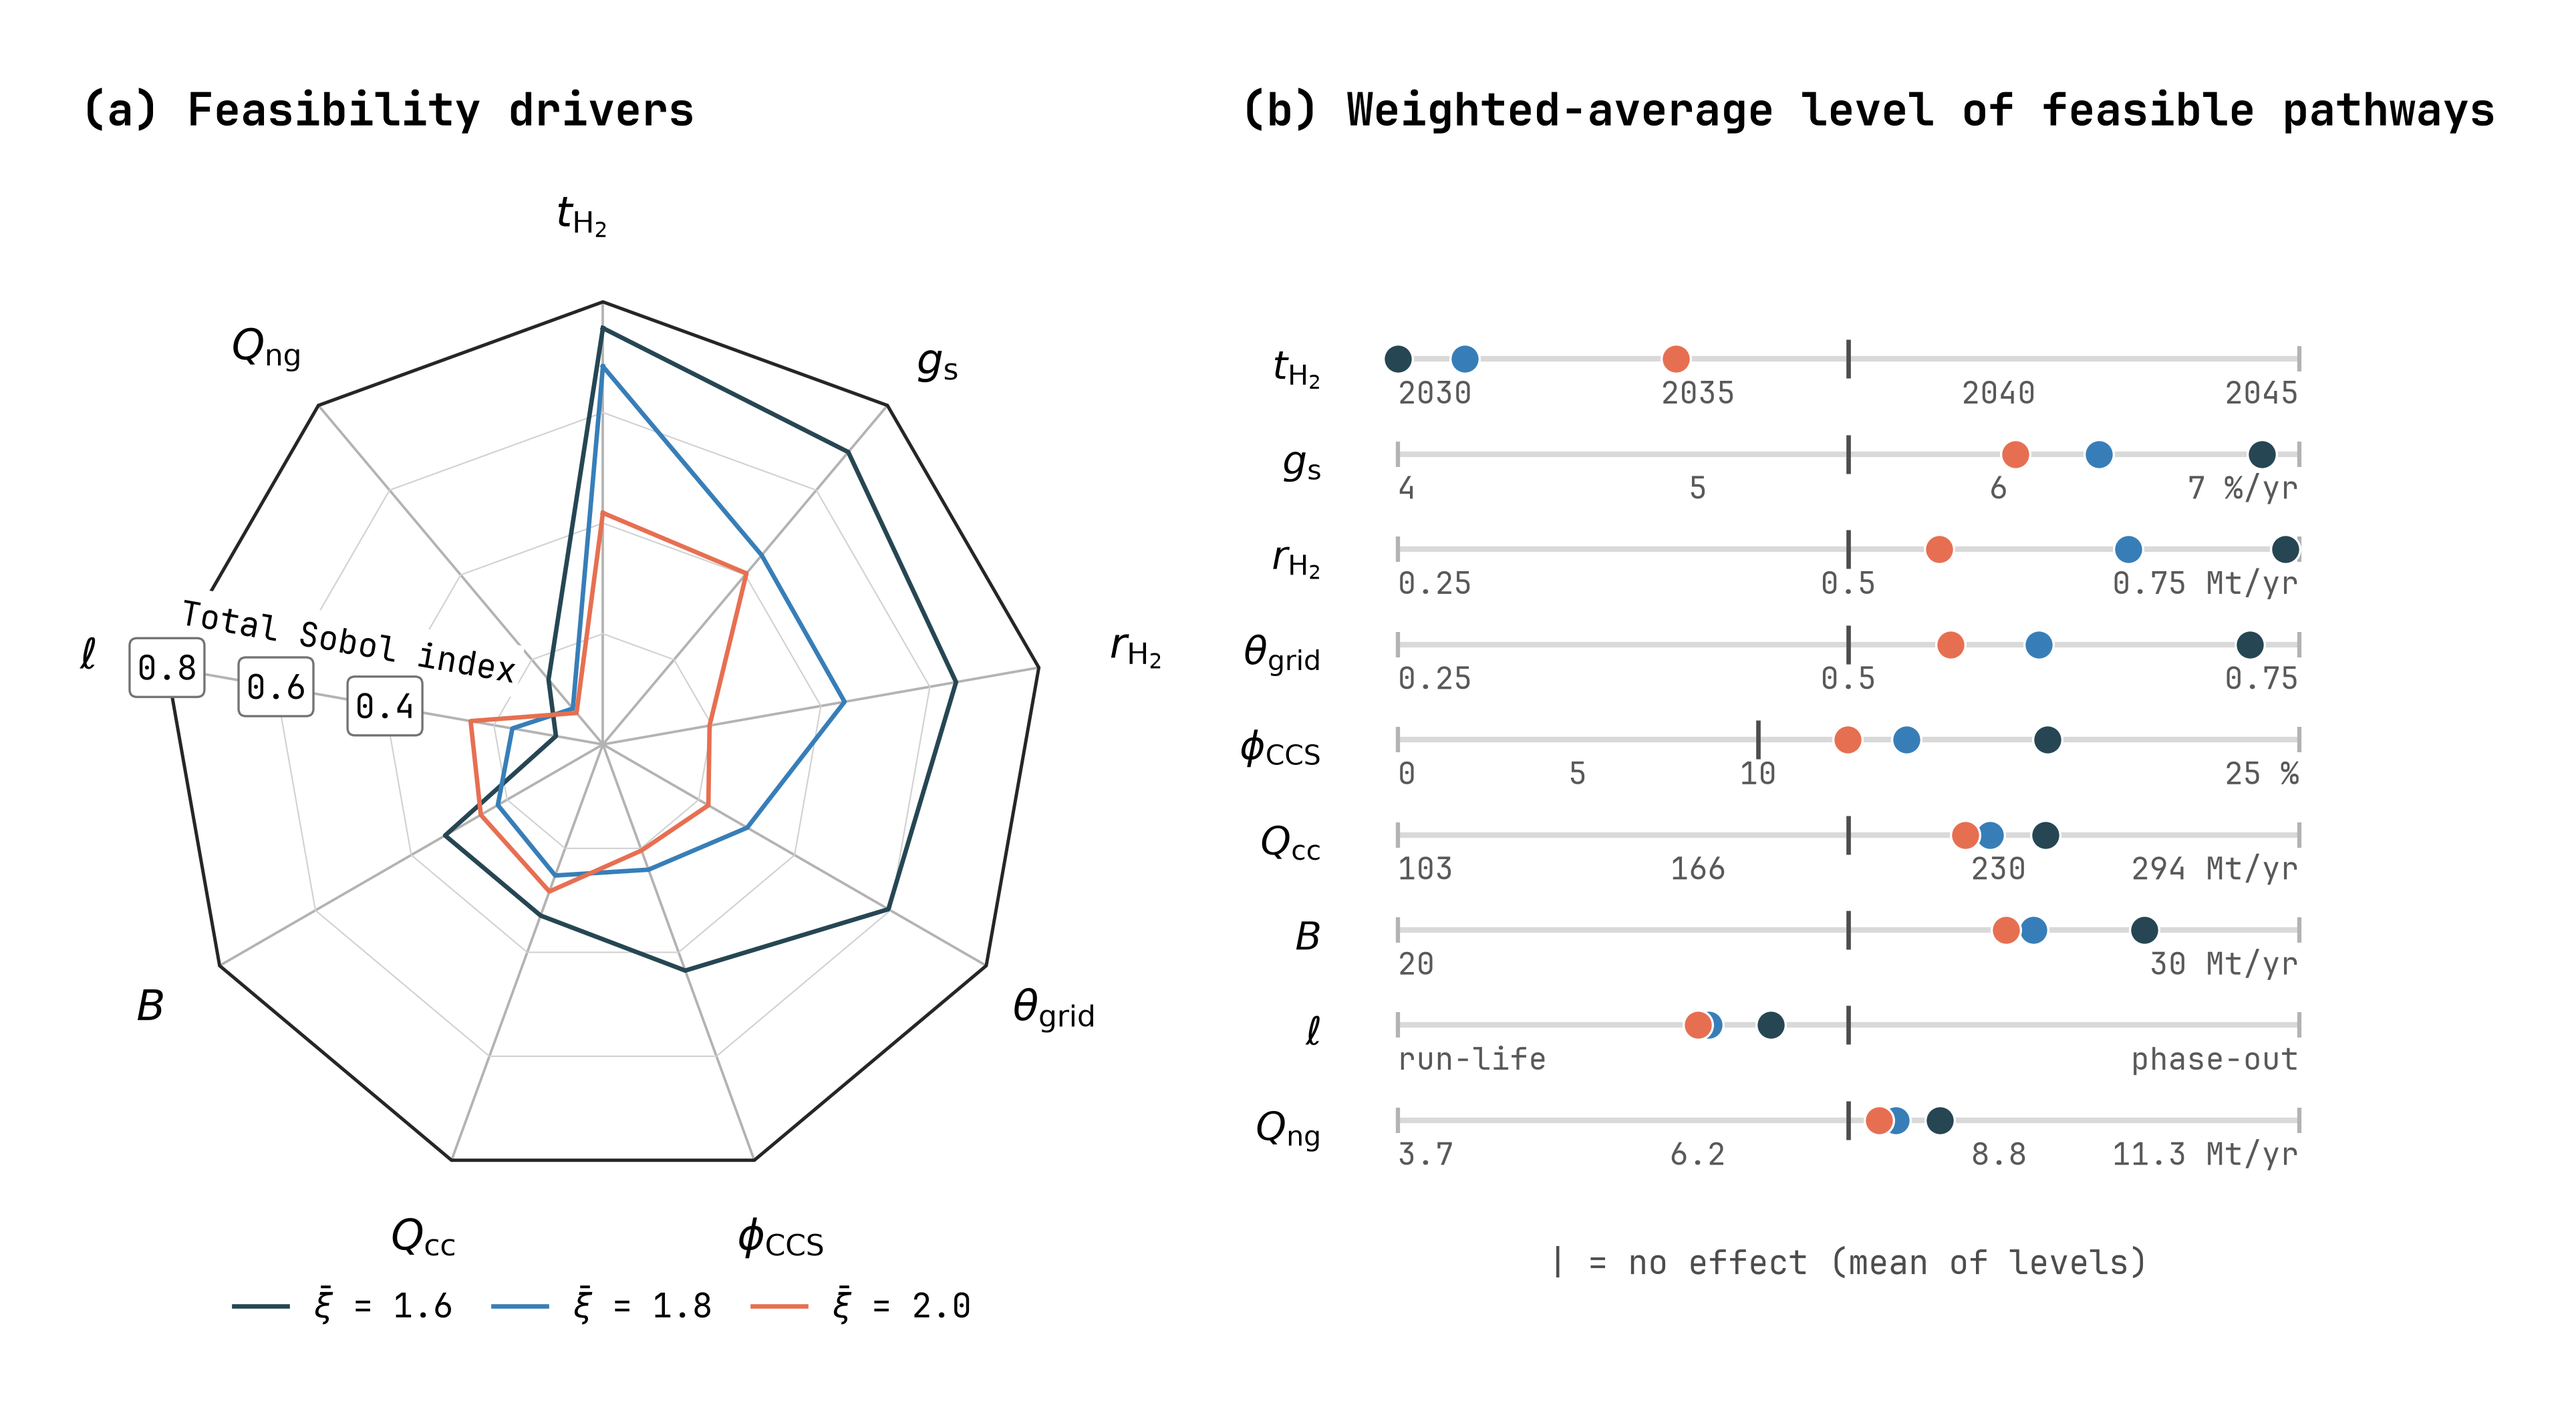
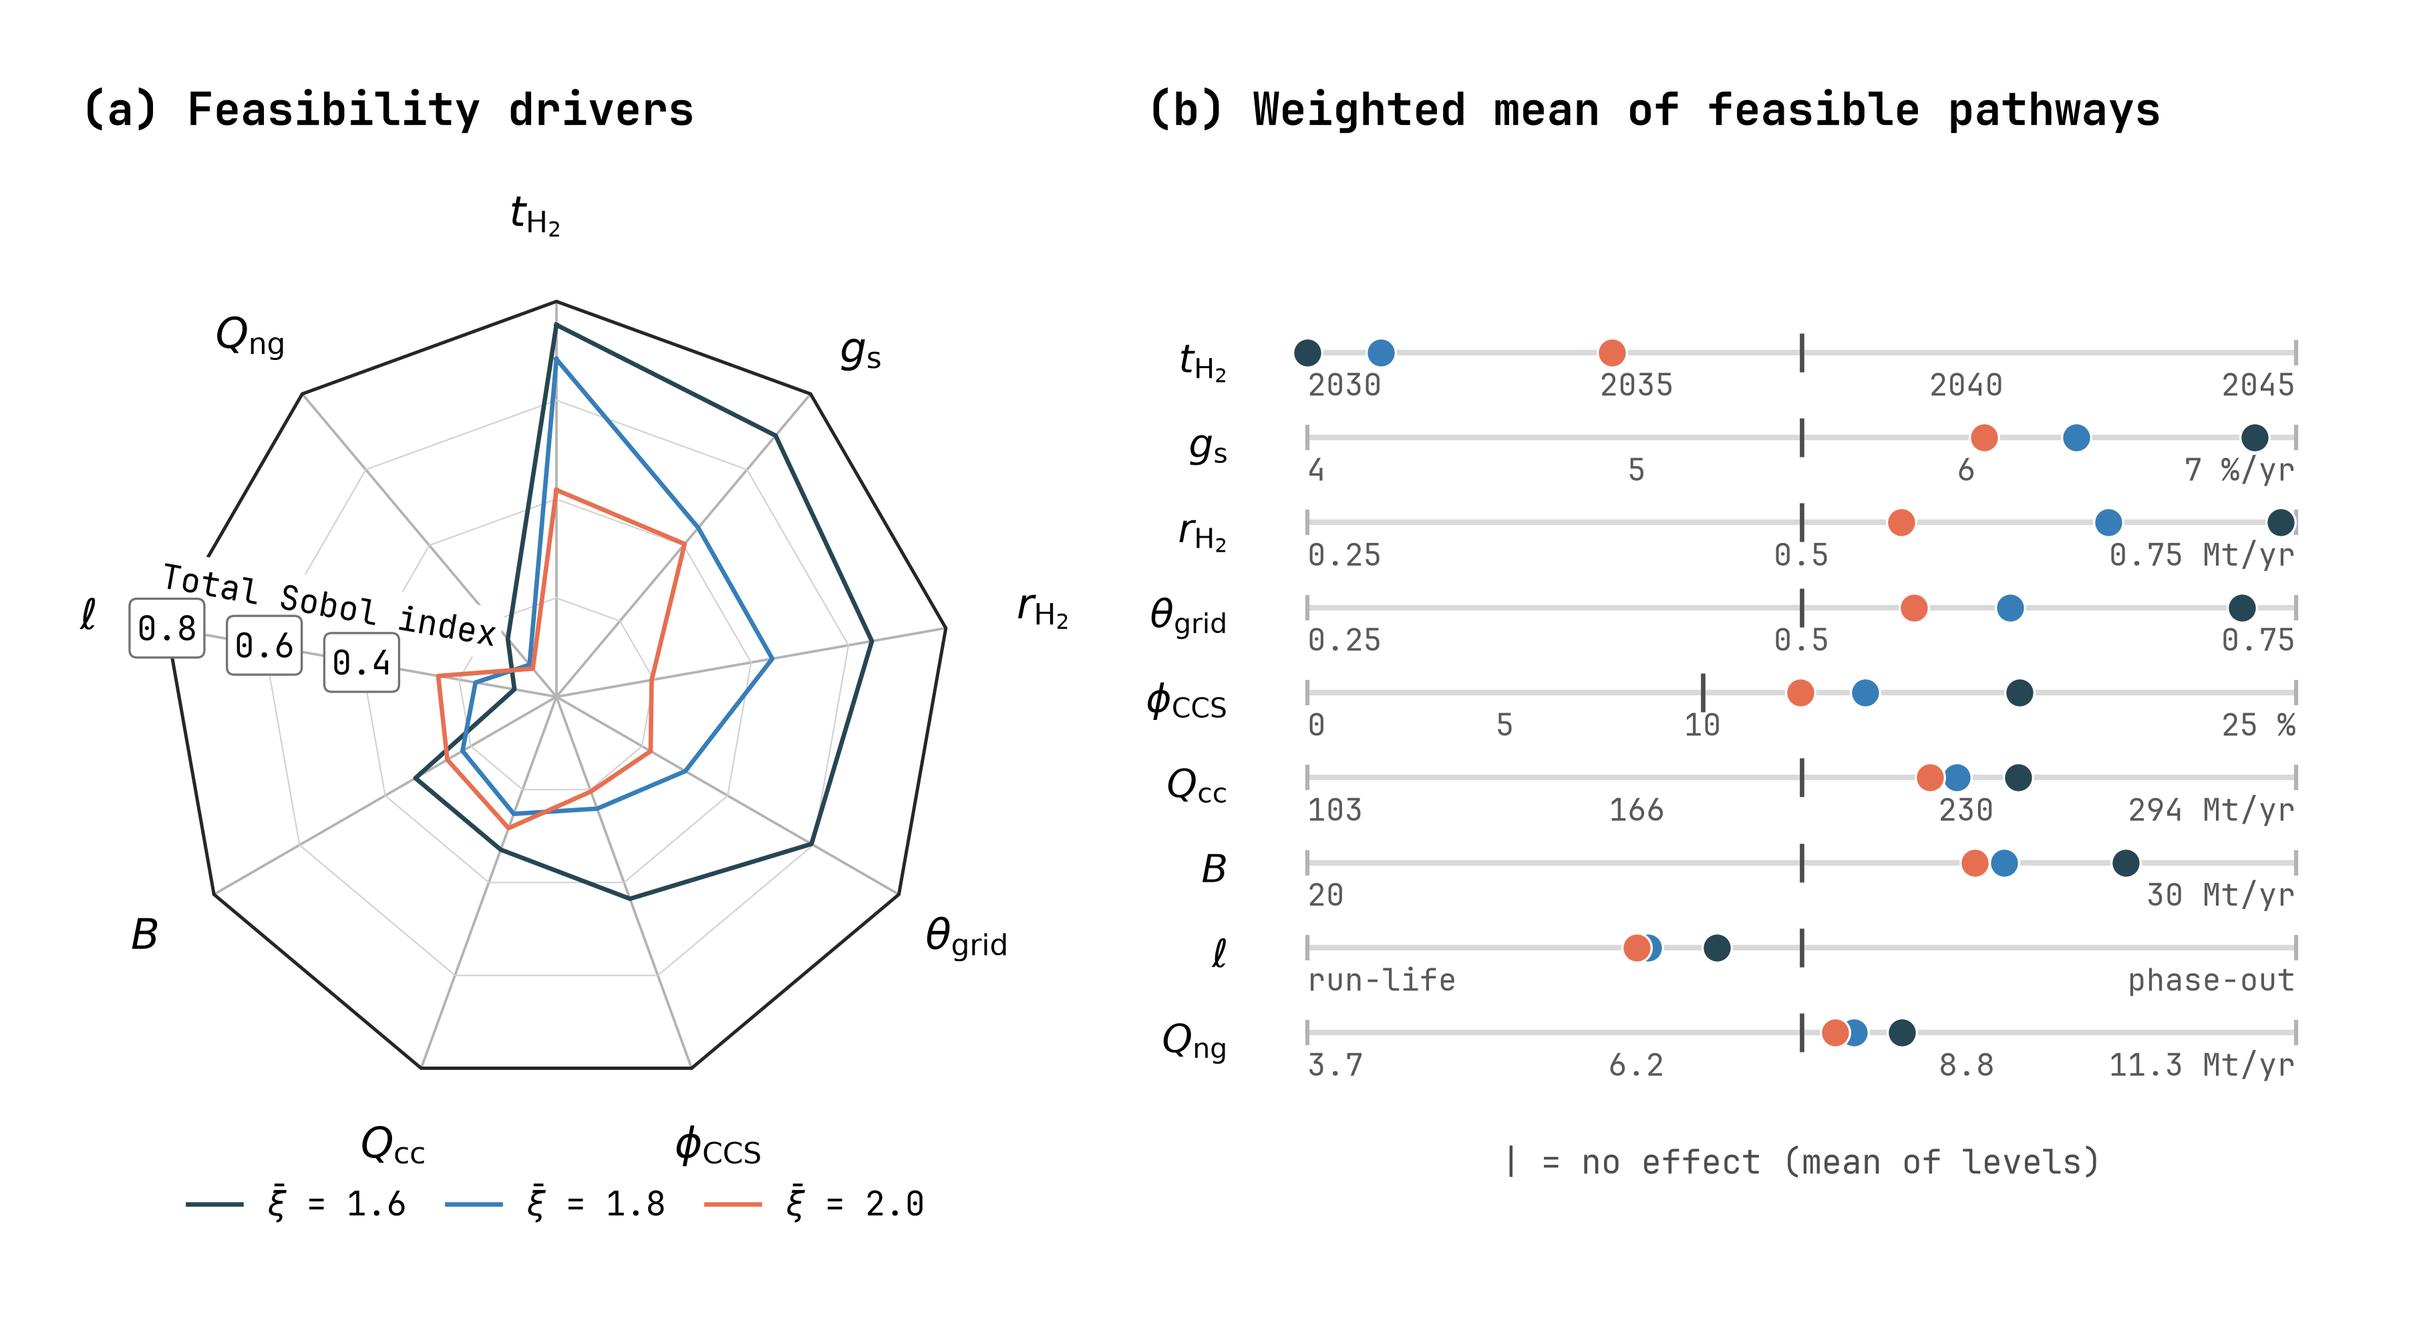
Violins by H2 ramp and by emission target; widen feasibility panel (b)
run_violin.py now bins every (avg_emi, ramp) on one shared grid
(xi 1.6/1.8/2.0 x low/medium/high). New figures: per-EF ramp-row violins
and an EF-row violin at high ramp and high scrap. Feasibility-bias panel
(b) gets a wider column and a shorter title.

diff --git a/monte_carlo/violin/run_violin.py b/monte_carlo/violin/run_violin.py
@@ -7,10 +7,10 @@ route mix per bin), RIGHT half = 2050 emission-intensity distribution
 (cumulative captured / cumulative gross emitted). P(infeasible) is
 computed per cell for annotation under each violin.
 
-Pure filter + bin, no solving: reads the EF=1.8 sheet of ../data/
+Pure filter + bin, no solving: reads the EF sheets of ../data/
 mc_solves.xlsx (the single shared Monte Carlo solve -- see
-../run_montecarlo.py), restricted here to ramp=medium, avg_emi=1.8
-(fixed throughout, matching the original study design). Scrap-rate rows
+../run_montecarlo.py), one violin set per (avg_emi, ramp) in AVG_EMIS x
+RAMPS. Scrap-rate rows
 are the 3-band grouping of our 5-level discrete axis:
   Low  = {0.02, 0.04}
   Mid  = {0.06}
@@ -20,16 +20,18 @@ P_infeasible needs the FULL structural cell population (including
 infeasible cells), which mc_solves.xlsx does not carry (it only solves
 feasible cells) -- read separately from structural/feasibility_and_
 synergy/feasibility_drivers/data/feasibility_drivers.xlsx, sheet
-"raw_matrix", filtered to avg_emi=1.8 & ramp=medium.
+"raw_matrix", filtered to the same avg_emi & ramp.
 
 Binning: LCOP and emis2050 each get their own 24-bin grid spanned over
-the GLOBAL range of the WHOLE violin population (not per-cell) --
+the range of the whole population (all avg_emi and ramps, not per-cell,
+so every panel compares on one grid) --
 reconstructed from the original violin_data.xlsx (bin edges shared
 exactly across all 12 (scrap_group, h2_year) groups; each group then
 keeps only its own non-empty bins, which is why saved bin counts vary
 group to group even though the edge grid itself is common).
 
 Output: data/violin.xlsx --
+Every sheet carries avg_emi and ramp columns.
   sheet "cells"     one row per (scrap_group, h2_year): grange (display
                     label), P_infeasible, n_solved (draw-rows, not
                     cells), capture_frac, lcop_p50, emis2050_p50
@@ -52,8 +54,8 @@ FEAS_XLSX = (ROOT / "structural" / "feasibility_and_synergy" /
              "feasibility_drivers" / "data" / "feasibility_drivers.xlsx")
 OUT = HERE / "data" / "violin.xlsx"
 
-RAMP = "medium"
-AVG_EMI = 1.8
+RAMPS = ["low", "medium", "high"]
+AVG_EMIS = [1.6, 1.8, 2.0]
 N_BINS = 24
 H2_YEARS = [2030, 2035, 2040, 2045]
 SCRAP_GROUPS = {"Low": [0.04], "Mid": [0.05], "High": [0.06, 0.07]}   # [audit] re-anchored axis
@@ -70,11 +72,11 @@ def scrap_group_of(rate):
     return None
 
 
-def load_population():
+def load_population(avg_emi):
     import pandas as pd
-    d = pd.read_excel(MC_SOLVES, sheet_name="ef1.8")
+    d = pd.read_excel(MC_SOLVES, sheet_name=f"ef{avg_emi}")
     d = d[d.ccs_phi == CCS_CENTRAL] if "ccs_phi" in d else d  # [audit] central CCS slice
-    d = d[(d.solve_result == "solved") & (d.ramp == RAMP)].copy()
+    d = d[(d.solve_result == "solved") & d.ramp.isin(RAMPS)].copy()
     d["scrap_group"] = d.scrap_rate.map(scrap_group_of)
     return d
 
@@ -83,7 +85,7 @@ def load_full_structural():
     import pandas as pd
     df = pd.read_excel(FEAS_XLSX, sheet_name="raw_matrix")
     df = df[df.ccs_phi == CCS_CENTRAL] if "ccs_phi" in df else df  # [audit] central CCS slice
-    df = df[(df.avg_emi == AVG_EMI) & (df.ramp == RAMP)].copy()
+    df = df[df.avg_emi.isin(AVG_EMIS) & df.ramp.isin(RAMPS)].copy()
     # The Monte Carlo samples only the bracketing coal/NG regimes; match that population
     df = df[df.ccoal.isin(["abundant", "scarce"]) & df.ng.isin(["abundant", "scarce"])]
     df["scrap_group"] = df.scrap_rate.map(scrap_group_of)
@@ -94,13 +96,38 @@ def main():
     import numpy as np
     import pandas as pd
 
-    pop = load_population()
-    full = load_full_structural()
-
-    lcop_edges = np.histogram_bin_edges(pop.lcop, bins=N_BINS)
-    emis_edges = np.histogram_bin_edges(pop.emis2050, bins=N_BINS)
-
+    full_all = load_full_structural()
     cells_rows, lcop_rows, emis_rows = [], [], []
+    n_pop = 0
+
+    pops = {ef: load_population(ef) for ef in AVG_EMIS}
+    pop_all = pd.concat(pops.values())
+    lcop_edges = np.histogram_bin_edges(pop_all.lcop, bins=N_BINS)
+    emis_edges = np.histogram_bin_edges(pop_all.emis2050, bins=N_BINS)
+
+    for ef, pop_ef in pops.items():
+        n_pop += len(pop_ef)
+        for ramp in RAMPS:
+            pop = pop_ef[pop_ef.ramp == ramp]
+            full = full_all[(full_all.avg_emi == ef) & (full_all.ramp == ramp)]
+            key = {"avg_emi": ef, "ramp": ramp}
+            _cells(key, pop, full, lcop_edges, emis_edges,
+                   cells_rows, lcop_rows, emis_rows)
+
+    OUT.parent.mkdir(parents=True, exist_ok=True)
+    with pd.ExcelWriter(OUT) as xw:
+        pd.DataFrame(cells_rows).to_excel(xw, sheet_name="cells", index=False)
+        pd.DataFrame(lcop_rows).to_excel(xw, sheet_name="lcop_bins", index=False)
+        pd.DataFrame(emis_rows).to_excel(xw, sheet_name="emis_bins", index=False)
+
+    print(f"violin: {n_pop:,} solve rows, {len(cells_rows)} cells -> "
+          f"{OUT.relative_to(ROOT)}")
+    return 0
+
+
+def _cells(key, pop, full, lcop_edges, emis_edges, cells_rows, lcop_rows, emis_rows):
+    """Append the 12 (scrap_group, h2_year) cells of one (avg_emi, ramp)."""
+    import numpy as np
 
     for sg in SCRAP_GROUPS:
         for yr in H2_YEARS:
@@ -113,7 +140,7 @@ def main():
             n_solved_rows = len(gsub)
 
             if n_solved_rows == 0:
-                cells_rows.append({"scrap_group": sg, "grange": GRANGE[sg],
+                cells_rows.append({**key, "scrap_group": sg, "grange": GRANGE[sg],
                                    "h2_year": yr, "P_infeasible": p_infeasible,
                                    "n_solved": 0, "capture_frac": None,
                                    "lcop_p50": None, "emis2050_p50": None})
@@ -122,7 +149,7 @@ def main():
             capture_frac = round(gsub.cum_captured.mean() /
                                  (gsub.cum_captured.mean() + gsub.cum_co2.mean()), 4)
             cells_rows.append({
-                "scrap_group": sg, "grange": GRANGE[sg], "h2_year": yr,
+                **key, "scrap_group": sg, "grange": GRANGE[sg], "h2_year": yr,
                 "P_infeasible": p_infeasible, "n_solved": n_solved_rows,
                 "capture_frac": capture_frac,
                 "lcop_p50": round(gsub.lcop.median(), 2),
@@ -132,7 +159,7 @@ def main():
             lcop_bin = np.digitize(gsub.lcop, lcop_edges[1:-1])
             for b in sorted(set(lcop_bin)):
                 bsub = gsub[lcop_bin == b]
-                row = {"scrap_group": sg, "h2_year": yr,
+                row = {**key, "scrap_group": sg, "h2_year": yr,
                        "lcop_bin_lo": round(lcop_edges[b], 2),
                        "lcop_bin_hi": round(lcop_edges[b + 1], 2),
                        "count": len(bsub)}
@@ -144,21 +171,11 @@ def main():
             for b in sorted(set(emis_bin)):
                 bsub = gsub[emis_bin == b]
                 emis_rows.append({
-                    "scrap_group": sg, "h2_year": yr,
+                    **key, "scrap_group": sg, "h2_year": yr,
                     "emis_bin_lo": round(emis_edges[b], 4),
                     "emis_bin_hi": round(emis_edges[b + 1], 4),
                     "count": len(bsub),
                 })
-
-    OUT.parent.mkdir(parents=True, exist_ok=True)
-    with pd.ExcelWriter(OUT) as xw:
-        pd.DataFrame(cells_rows).to_excel(xw, sheet_name="cells", index=False)
-        pd.DataFrame(lcop_rows).to_excel(xw, sheet_name="lcop_bins", index=False)
-        pd.DataFrame(emis_rows).to_excel(xw, sheet_name="emis_bins", index=False)
-
-    print(f"violin: {len(pop):,} solve rows, {len(cells_rows)} cells -> "
-          f"{OUT.relative_to(ROOT)}")
-    return 0
 
 
 if __name__ == "__main__":
